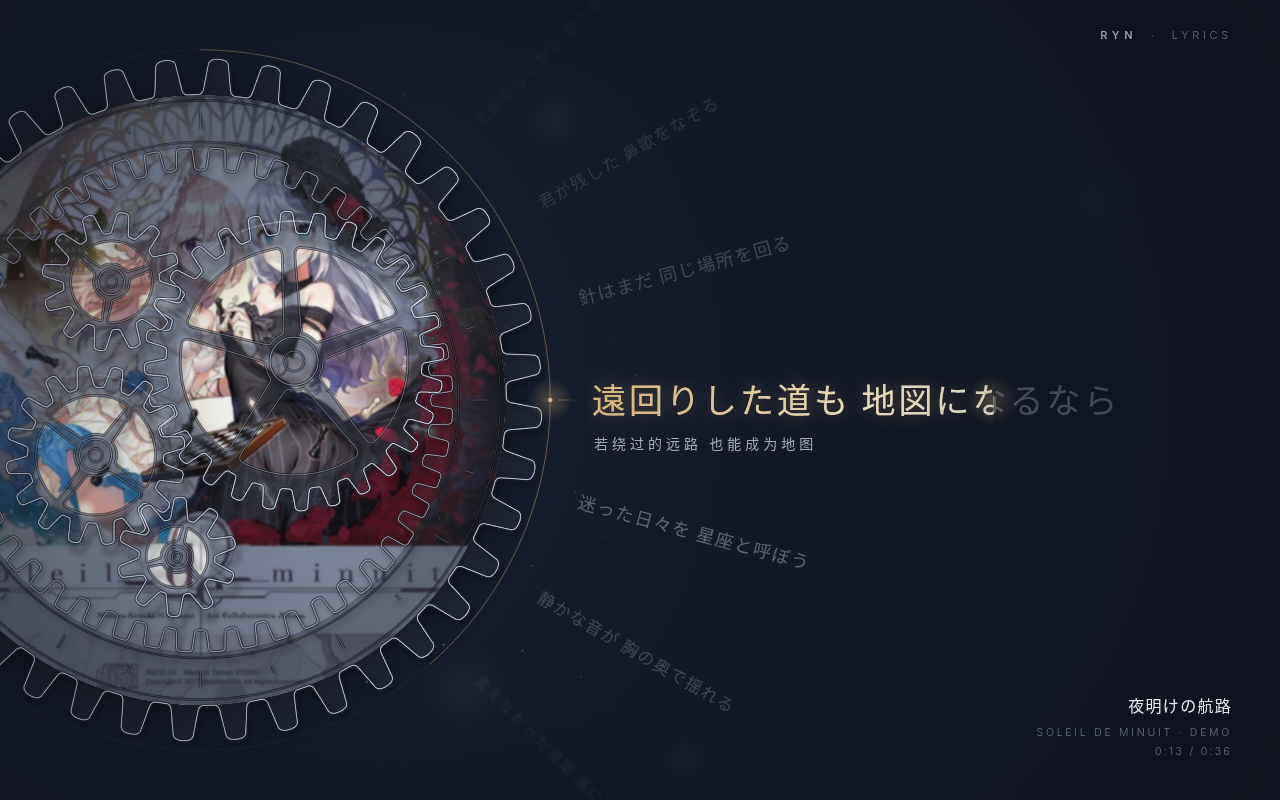
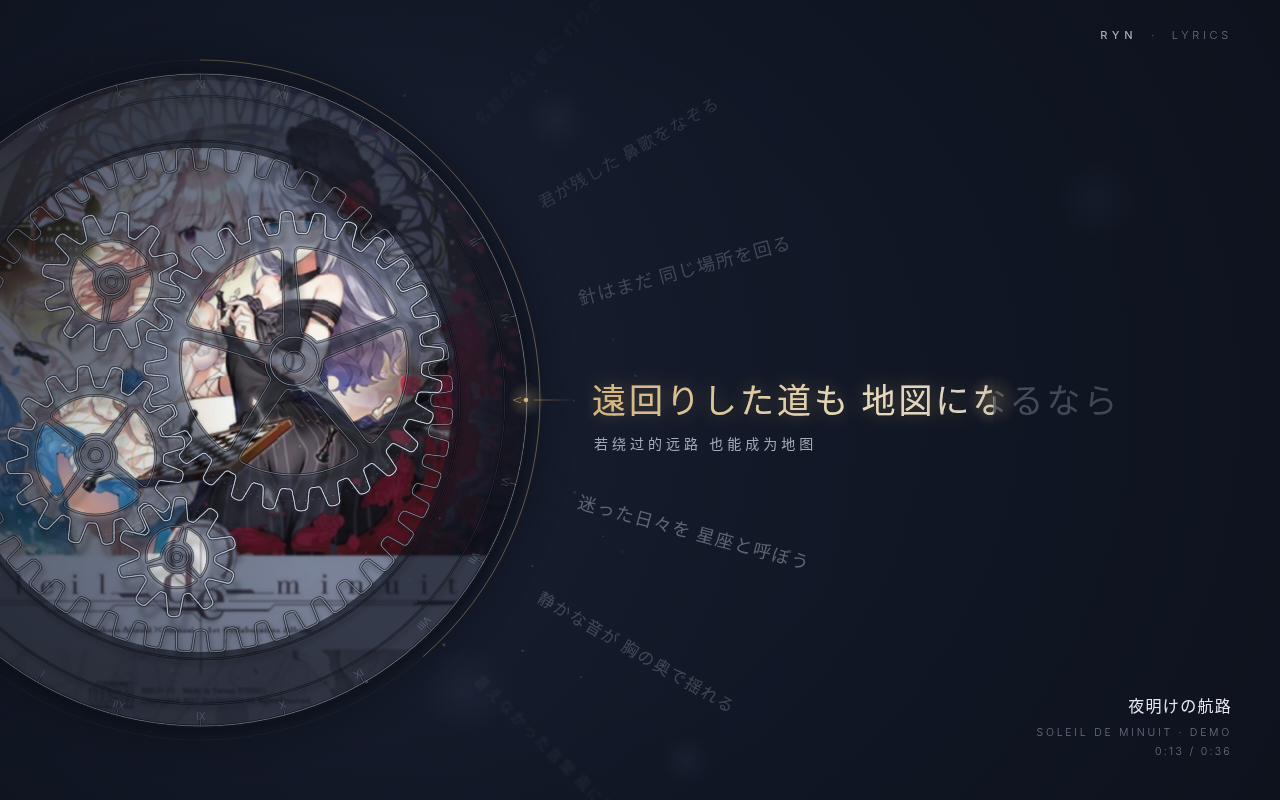
lyric-dial 7b: 6b-style engraved Roman-numeral band rim, calmer pitch-circle light, no mesh-point flashes

Changed region(s): [[0.0, 0.0625, 0.4375, 0.9062]]

diff --git a/ryn-lyric-dial/concept-7b/index.html b/ryn-lyric-dial/concept-7b/index.html
@@ -18,15 +18,16 @@
 <script src="../assets/common.js"></script>
 <script>
 /* Concept 7b — 光轮 II Luminous Train
-   One bold ring (40 outer teeth, 48 inner teeth) drives a plain visible chain inside the dial:
+   An engraved Roman-numeral band (6b style) whose 48 inner teeth drive a plain visible chain inside the dial:
    Ring(48 int) → L(28) → M(16) → S(10)   and   L(28) → S2(12).  No carrier, no bridges, no arms.
    Wheels are luminous hairlines (with a dark under-stroke so they read on bright art);
    the cover is veiled and turns crisp inside the wheels' spoke windows. Ring rotation = lyric arc. */
 const TAU = Math.PI * 2, CX = 200, CY = 400;
 const MI = 10, ZRI = 48, RRI = MI * ZRI / 2;          // ring internal: pitch R 240
-const MO = 16.25, ZRO = 40, RRO = MO * ZRO / 2;       // ring external crown: pitch R 325, tips 341 → Ø 682
-const R_COV = RRO - 1.25 * MO, R_TXT = 392;
-const STEP = 15 * Math.PI / 180;   // 1 line = 15°: 12 lines = 180° = 24 inner / 20 outer teeth → seamless loop
+const BAND_I = RRI + 1.2 * MI, BAND_O = 326;          // engraved band (6b style) between the inner-teeth root and Ø 652
+const R_COV = BAND_O, R_TXT = 392;
+const ROMAN = ['I','II','III','IV','V','VI','VII','VIII','IX','X','XI','XII'];
+const STEP = 15 * Math.PI / 180;   // 1 line = 15°: 12 lines = 180° = 24 inner teeth → seamless loop
 const SS = 2, INK = '226,234,250';
 const smooth = x => x * x * x * (x * (x * 6 - 15) + 10);
 const easeInOutSine = x => -(Math.cos(Math.PI * x) - 1) / 2;
@@ -94,16 +95,15 @@ function bake(cover) {
     g.filter = 'blur(1.6px) saturate(.8) brightness(.67)'; if (cover) g.drawImage(cover, -4, -4, S + 8, S + 8); g.filter = 'none';
     g.globalCompositeOperation = 'multiply'; g.fillStyle = 'rgb(182,195,228)'; g.fillRect(0, 0, S, S); g.globalCompositeOperation = 'source-over';
     // ring band under heavier frost so the rim reads as one bold part
-    g.fillStyle = 'rgba(14,19,31,.3)'; g.beginPath(); g.arc(R_COV, R_COV, R_COV, 0, TAU); g.arc(R_COV, R_COV, RRI + 1.2 * MI, 0, TAU, true); g.fill();
+    g.fillStyle = 'rgba(16,21,34,.66)'; g.beginPath(); g.arc(R_COV, R_COV, R_COV, 0, TAU); g.arc(R_COV, R_COV, RRI + 1.2 * MI, 0, TAU, true); g.fill();
     B.veil = c; }
   { const [c, g] = mk(); g.filter = 'saturate(1.03) contrast(1.03)'; if (cover) g.drawImage(cover, 0, 0, S, S); B.crisp = c; }
   for (const k of ['L', 'M', 'S', 'S2']) { G[k].def = wheelDef(G[k]); B[k] = bakeWheel(G[k].def); }
-  { const outer = toPath(teeth(ZRO, RRO, MO, false)), inner = toPath(teeth(ZRI, RRI, MI, true)), body = new Path2D();
-    body.addPath(outer); body.addPath(inner);
-    const scale = new Path2D(); const rS = (RRI + 1.2 * MI + RRO - 1.2 * MO) / 2;
-    for (let k = 0; k < 24; k++) { const a = k * STEP, l = k % 2 ? 4 : 8; scale.moveTo(Math.cos(a) * (rS - l), Math.sin(a) * (rS - l)); scale.lineTo(Math.cos(a) * (rS + l), Math.sin(a) * (rS + l)); }
-    B.ring = bakeWheel({size: 2 * (RRO + MO) + 16, body, frost: .05, wins: [],
-      lines: [[outer, .8], [inner, .6], [scale, .3], [circ(RRO - 1.2 * MO - 6), .16], [circ(RRI + 1.2 * MI + 6), .16]]}); }
+  { // ring = engraved band (thin concentric rings + one quiet tick per lyric step) with the drive teeth on its inner edge
+    const inner = toPath(teeth(ZRI, RRI, MI, true)), ticks = new Path2D();
+    for (let k = 0; k < 24; k++) { const a = k * STEP; ticks.moveTo(Math.cos(a) * BAND_O, Math.sin(a) * BAND_O); ticks.lineTo(Math.cos(a) * (BAND_O - 6), Math.sin(a) * (BAND_O - 6)); }
+    B.ring = bakeWheel({size: 2 * BAND_O + 16, wins: [],
+      lines: [[circ(BAND_O), .42], [inner, .5], [ticks, .3], [circ(BAND_O - 22), .12], [circ(BAND_I + 7), .1]]}); }
   const shadow = c => { const t = document.createElement('canvas'); t.width = t.height = c.width; const g = t.getContext('2d'); g.filter = `blur(${3 * SS}px) brightness(0)`; g.drawImage(c, 0, 0); t.size = c.size; return t; };
   for (const k of ['ring', 'L', 'M', 'S', 'S2']) B[k + 'Sh'] = shadow(B[k]);
   B.mask = document.createElement('canvas');
@@ -125,6 +125,7 @@ boot(({ctx, cover}, t, s) => {
   const th = {}; th.L = meshInt(thR, G.L); th.M = meshExt(G.L, G.M, th.L); th.S = meshExt(G.M, G.S, th.M); th.S2 = meshExt(G.L, G.S2, th.L);
   const px = Math.sin(t * .13) * 2, py = Math.cos(t * .11) * 1.5;
   const beat = Math.exp(-mod(t, .5) / .12) * (mod(Math.floor(t / .5), 4) === 0 ? 1 : .55);
+  const soft = .5 - .5 * Math.cos(TAU * mod(t, 2) / 2);   // one slow swell per bar
   const dep = {ring: .4, L: 1, M: 1.25, S: 1.5, S2: 1.5};   // parallax depth: smaller wheels sit nearer the glass
 
   for (const [bx, by, br] of BOKEH) { const g = ctx.createRadialGradient(bx - px * 2, by - py * 2, 0, bx - px * 2, by - py * 2, br); g.addColorStop(0, 'rgba(170,190,230,.05)'); g.addColorStop(1, 'rgba(170,190,230,0)'); ctx.fillStyle = g; ctx.beginPath(); ctx.arc(bx - px * 2, by - py * 2, br, 0, TAU); ctx.fill(); }
@@ -137,7 +138,7 @@ boot(({ctx, cover}, t, s) => {
     g.fillStyle = '#fff'; g.shadowColor = '#fff'; g.shadowBlur = 6 * dpr;
     for (const k of ['L', 'M', 'S', 'S2']) { const w = G[k]; g.save(); g.translate(w.x - CX + R_COV + px * dep[k], w.y - CY + R_COV + py * dep[k]); g.rotate(th[k]); for (const p of w.def.wins) g.fill(p); g.restore(); }
     g.shadowBlur = 0; g.globalCompositeOperation = 'source-in'; g.setTransform(1, 0, 0, 1, 0, 0); g.drawImage(B.crisp, 0, 0, mc.width, mc.height); g.globalCompositeOperation = 'source-over';
-    ctx.globalAlpha = .93 + .07 * beat; ctx.drawImage(mc, CX - R_COV, CY - R_COV, S, S); ctx.globalAlpha = 1; }
+    ctx.globalAlpha = .95 + .05 * soft; ctx.drawImage(mc, CX - R_COV, CY - R_COV, S, S); ctx.globalAlpha = 1; }
   { ctx.save(); ctx.beginPath(); ctx.arc(CX, CY, R_COV, 0, TAU); ctx.clip(); ctx.globalCompositeOperation = 'screen';
     const u = mod(t / 11, 1), x0 = CX - 560 + u * 1120, sw = ctx.createLinearGradient(x0 - 150, CY - 320, x0 + 150, CY + 320);
     sw.addColorStop(0, 'rgba(200,214,240,0)'); sw.addColorStop(.5, 'rgba(200,214,240,.06)'); sw.addColorStop(1, 'rgba(200,214,240,0)');
@@ -148,32 +149,33 @@ boot(({ctx, cover}, t, s) => {
   put(ctx, B.ringSh, CX + O[0] * .5, CY + O[1] * .5, thR, .45);
   for (const k of ['L', 'M', 'S', 'S2']) put(ctx, B[k + 'Sh'], G[k].x + O[0] * dep[k], G[k].y + O[1] * dep[k], th[k], .45);
   put(ctx, B.ring, CX + px * dep.ring, CY + py * dep.ring, thR);
+  // Roman numerals engraved on the band, riding with the ring (24 slots = two turns of I–XII), current one gold
+  ctx.font = `300 10px ${FONT_UI}`; ctx.textAlign = 'center'; ctx.textBaseline = 'middle';
+  for (let i = 0; i < N; i++) for (const w of [0, 1]) {
+    const d0 = rel(i, s.p), d = w ? d0 + (d0 < 0 ? 12 : -12) : d0, a = d * STEP, f = w ? 0 : focus(d0);
+    ctx.save(); ctx.translate(CX + px * dep.ring + Math.cos(a) * (BAND_O - 11), CY + py * dep.ring + Math.sin(a) * (BAND_O - 11)); ctx.rotate(a + Math.PI / 2);
+    ctx.fillStyle = f > .02 ? rgba(C.gold, .35 + .5 * f) : `rgba(${INK},.24)`; ctx.fillText(ROMAN[i], 0, 0); ctx.restore(); }
   for (const k of ['L', 'M', 'S', 'S2']) put(ctx, B[k], G[k].x + px * dep[k], G[k].y + py * dep[k], th[k]);
 
-  // beat light along pitch circles (additive)
+  // calm light along the pitch circles: a slow, faint glint that only swells a little on the beat
   ctx.save(); ctx.globalCompositeOperation = 'lighter'; ctx.lineCap = 'round';
-  const comet = (x, y, r, a, len, al) => { for (let k = 0; k < 6; k++) { ctx.strokeStyle = `rgba(${INK},${al * (1 - k / 6)})`; ctx.lineWidth = 1.5 - k * .15; ctx.beginPath(); ctx.arc(x, y, r, a - (k + 1) * len / 6, a - k * len / 6); ctx.stroke(); } };
-  comet(CX, CY, RRI, -t * .3 + 1, .5, .2 + .4 * beat);
-  comet(G.L.x + px, G.L.y + py, G.L.R, t * .8, 1.0, .22 + .5 * beat);
-  comet(G.M.x + px * 1.25, G.M.y + py * 1.25, G.M.R, -t * 1.1 + 2, 1.1, .16 + .4 * beat);
-  // mesh points: where two wheels touch, a soft light breathes with the beat — the linkage reads at a glance
-  const meshPt = (a, b, sign) => { const d = Math.hypot(b.x - a.x, b.y - a.y), k = sign * a.R / d, x = a.x + (b.x - a.x) * k, y = a.y + (b.y - a.y) * k;
-    const g = ctx.createRadialGradient(x, y, 0, x, y, 16); g.addColorStop(0, `rgba(${INK},${.22 + .4 * beat})`); g.addColorStop(1, `rgba(${INK},0)`); ctx.fillStyle = g; ctx.fillRect(x - 16, y - 16, 32, 32); };
-  meshPt({x: CX, y: CY, R: RRI}, G.L, 1); meshPt(G.L, G.M, 1); meshPt(G.M, G.S, 1); meshPt(G.L, G.S2, 1);
+  const comet = (x, y, r, a, len, al) => { for (let k = 0; k < 6; k++) { ctx.strokeStyle = `rgba(${INK},${al * (1 - k / 6)})`; ctx.lineWidth = 1.2 - k * .12; ctx.beginPath(); ctx.arc(x, y, r, a - (k + 1) * len / 6, a - k * len / 6); ctx.stroke(); } };
+  comet(G.L.x + px, G.L.y + py, G.L.R, t * .35, 1.2, .09 + .07 * soft);
+  comet(G.M.x + px * 1.25, G.M.y + py * 1.25, G.M.R, -t * .5 + 2, 1.2, .07 + .05 * soft);
   ctx.restore();
 
   // glass crescent highlight + rim
   { ctx.save(); ctx.beginPath(); ctx.arc(CX, CY, R_COV - 1, 0, TAU); ctx.clip();
     const hl = ctx.createLinearGradient(CX - 200, CY - 300, CX + 80, CY - 40); hl.addColorStop(0, 'rgba(225,235,255,.09)'); hl.addColorStop(1, 'rgba(225,235,255,0)');
     ctx.fillStyle = hl; ctx.beginPath(); ctx.arc(CX, CY, R_COV - 6, Math.PI * 1.1, Math.PI * 1.7); ctx.arc(CX + 50, CY + 44, R_COV - 6, Math.PI * 1.7, Math.PI * 1.1, true); ctx.fill(); ctx.restore(); }
-  // progress: gold hairline just outside the teeth
-  const RP = RRO + MO + 9;
+  // progress: gold hairline just outside the band
+  const RP = BAND_O + 14;
   ctx.lineWidth = .7; ctx.strokeStyle = `rgba(${INK},.07)`; ctx.beginPath(); ctx.arc(CX, CY, RP, 0, TAU); ctx.stroke();
   ctx.strokeStyle = rgba(C.gold, .7); ctx.beginPath(); ctx.arc(CX, CY, RP, -Math.PI / 2, -Math.PI / 2 + TAU * s.progress); ctx.stroke();
   // index + connector
-  { const ix = CX + RP, g = ctx.createRadialGradient(ix, CY, 0, ix, CY, 22);
-    g.addColorStop(0, rgba(C.goldHi, .3 + .25 * beat)); g.addColorStop(1, rgba(C.goldHi, 0));
-    ctx.fillStyle = g; ctx.beginPath(); ctx.arc(ix, CY, 22, 0, TAU); ctx.fill();
+  { const ix = CX + BAND_O, g = ctx.createRadialGradient(ix, CY, 0, ix, CY, 18);
+    g.addColorStop(0, rgba(C.goldHi, .28)); g.addColorStop(1, rgba(C.goldHi, 0));
+    ctx.fillStyle = g; ctx.beginPath(); ctx.arc(ix, CY, 18, 0, TAU); ctx.fill();
     ctx.fillStyle = C.goldHi; ctx.beginPath(); ctx.arc(ix, CY, 2.2, 0, TAU); ctx.fill();
     const lg = ctx.createLinearGradient(ix + 8, 0, CX + R_TXT - 16, 0); lg.addColorStop(0, rgba(C.gold, .8)); lg.addColorStop(1, rgba(C.gold, 0));
     ctx.strokeStyle = lg; ctx.lineWidth = .8; ctx.beginPath(); ctx.moveTo(ix + 8, CY); ctx.lineTo(CX + R_TXT - 16, CY); ctx.stroke(); }

diff --git a/ryn-lyric-dial/gallery.html b/ryn-lyric-dial/gallery.html
@@ -17,5 +17,5 @@ a.card img{display:block;width:100%;aspect-ratio:16/10;object-fit:cover}
 <a class="card" href="concept-3/index.html"><img src="shots/3.png"><div class="meta"><div class="n">CONCEPT 03</div><div class="t">仪表 · Gauge</div><div class="d">底部半圆模拟表盘，歌词沿弧排成刻度标签，指针带回弹扫向当前行，上方大字显示。</div><div class="g">Godot: 刻度烘焙一次（静态 _draw），每帧只重画指针 + 两行大字；Tween TRANS_BACK。</div></div></a>
 <a class="card" href="concept-4/index.html"><img src="shots/4.png"><div class="meta"><div class="n">CONCEPT 04</div><div class="t">八音盒滚筒 · Music-box Drum</div><div class="d">横置的透视滚筒印着歌词，当前行在正面平展，其余行随曲面压缩远去；左侧封面铭牌。</div><div class="g">Godot: draw_set_transform(scale=(sx,cosφ)) 逐行绘制 + 圆柱明暗 shader 或渐变纹理。</div></div></a>
 <a class="card" href="concept-5/index.html"><img src="shots/5.png"><div class="meta"><div class="n">CONCEPT 05</div><div class="t">星轨 · Orbit</div><div class="d">封面为中心天体，歌词沿倾斜椭圆轨道运行，抵达近日点时放大落下；外圈波形环随音频起伏。</div><div class="g">Godot: 轨道点参数方程 + z 排序（后半先画）；波形环用 AudioEffectSpectrumAnalyzer + draw_multiline。</div></div></a>
-<a class="card" href="concept-7b/index.html"><img src="shots/7b.png"><div class="meta"><div class="n">CONCEPT 06 · GEAR (7b)</div><div class="t">光轮 · Luminous Train</div><div class="d">大表盘偏左、部分出画。粗齿外圈（40 齿）驱动盘内一条一眼可读的齿轮链：齿圈 → 大轮 → 中轮 → 小轮，大轮另带一只小轮；无行星架、无夹板、无连杆。齿轮为带暗描边的发光细线，封面罩轻雾，只在辐条窗内清晰明亮。光点随节拍沿节圆和啮合点闪动；右侧歌词沿同心弧，当前行卡拉OK式由金到白点亮。</div><div class="g">Godot: 每轮一张细线贴图 + 一张阴影贴图，只改 rotation（按齿数比计算）；清晰窗口用 SubViewport 遮罩 + 封面 shader 混合；卡拉OK 用 shader 阈值。<a href="shots/7b-detail.png" style="color:#b8955a">2× 细节图</a> · <a href="shots/7b-vs-ref.png" style="color:#b8955a">与参考对比</a></div></div></a>
+<a class="card" href="concept-7b/index.html"><img src="shots/7b.png"><div class="meta"><div class="n">CONCEPT 06 · GEAR (7b)</div><div class="t">光轮 · Luminous Train</div><div class="d">大表盘偏左、部分出画。罗马数字刻度环（同 6b：细同心刻线、I–XII 小罗马数字随歌曲转动），环内缘的齿驱动盘内一条一眼可读的齿轮链：齿圈 → 大轮 → 中轮 → 小轮，大轮另带一只小轮；无行星架、无夹板、无连杆。齿轮为带暗描边的发光细线，封面罩轻雾，只在辐条窗内清晰明亮。节圆上只有缓慢、极淡的光；右侧歌词沿同心弧，当前行卡拉OK式由金到白点亮。</div><div class="g">Godot: 每轮一张细线贴图 + 一张阴影贴图，只改 rotation（按齿数比计算）；清晰窗口用 SubViewport 遮罩 + 封面 shader 混合；卡拉OK 用 shader 阈值。<a href="shots/7b-detail.png" style="color:#b8955a">2× 细节图</a> · <a href="shots/7b-vs-ref.png" style="color:#b8955a">与参考对比</a></div></div></a>
 </div></body></html>

diff --git a/ryn-lyric-dial/README.md b/ryn-lyric-dial/README.md
@@ -16,7 +16,7 @@ In Godot: compute `p` in `_process`, call `queue_redraw()`, map in `_draw()`.
 | 3 | 仪表 Gauge | Dial face, progress ticks and radial labels redrawn only on line change (separate CanvasItem); needle = `Sprite2D`/`Polygon2D` with `rotation` driven by Tween `TRANS_BACK` (+ tiny jitter from `AudioEffectSpectrumAnalyzer`). Big line = 2 `Label`s cross-faded via `modulate.a`. | Per frame: 1 transform + 2 labels. Cheapest. |
 | 4 | 八音盒滚筒 Drum | For each visible line: `draw_set_transform(Vector2(cx, cy+R*sin φ), 0, Vector2(sx, cos φ))` then `draw_string`. Barrel silhouette = `draw_colored_polygon`; cylinder shading = gradient texture or a tiny CanvasItem shader on a ColorRect (`cos` shading on UV.y). Ribs = `draw_line` loop. | ~7 lines × 2 strings + ~40 lines + polygon. Cheap. Alternative: real 3D `CylinderMesh` + `SubViewport` text texture (heavier, not needed). |
 | 5 | 星轨 Orbit | Orbit points from parametric ellipse; sort by z (back half drawn before the cover node, front half after — two CanvasItems or `z_index`). Labels: `draw_string` with font size lerp (use a few cached sizes or `scale` transform to avoid font re-raster). Waveform ring: 120 radial segments via one `draw_multiline` fed by `AudioEffectSpectrumAnalyzerInstance.get_magnitude_for_frequency_range`. | 12 strings + 1 multiline (120 segs) + 3 ellipse polylines. Cheap. |
-| 7b | 光轮 II Luminous Train | Large dial (outer tips Ø682, centre x=200, partly off-screen). One bold ring: 40 outer teeth (m 16.25) as the rim + 48 inner teeth (m 10) + one subtle 24-tick scale on the band. Inside the dial only, a plain visible chain that meshes directly: Ring(48 int) → L(28) → M(16) → S(10), and L → S2(12). No carrier, no bridges, no arms; wheels are 5/4/3/3 tapered straight spokes. Arbor positions solved once at exact centre distances; angles: internal `θL = ψ − π/ZL − (Zr/ZL)(ψ − θR)`, external `θb = ψ + π − π/Zb + (Za/Zb)(ψ − θa)`. Ring = lyric arc (15°/line; 12 lines = 180° = 24 inner / 20 outer teeth → seamless loop). Cover under a light veil (blur 1.6px, ×0.67, cool multiply), crisp and full-bright inside the spoke windows (feathered mask). Lines: dark 3px under-stroke (legible over bright art) + 4px 7% glow + 0.7–1.1px hairline; rim > teeth > windows > dotted pitch circle. Soft blurred shadows, small parallax by depth, beat light on pitch circles and at the mesh points, glass crescent + slow sweep, dust. Lyrics: concentric arc, karaoke gold→white reveal, gold index point + hairline connector + progress. **Godot:** 5 wheel textures + 5 shadow textures (bake offline), per frame set 5 `rotation`s; crisp windows = SubViewport mask (rotated window polygons) → cover shader `mix(veil, crisp, mask.r)`; karaoke = shader with `reveal` uniform on UV.x; comets `draw_arc`; dust GPUParticles2D. | ~10 sprites + 1 SubViewport + 2 small shaders; cheap. |
+| 7b | 光轮 II Luminous Train | Large dial (Ø652 band, centre x=200, partly off-screen). Rim = the 6b engraved band (Ø652): thin concentric rings, 24 quiet ticks and small Roman numerals I–XII engraved on it (current numeral gold), rotating with the song; its hidden-edge 48 inner teeth (m 10) drive the chain. Inside the dial only, a plain visible chain that meshes directly: Ring(48 int) → L(28) → M(16) → S(10), and L → S2(12). No carrier, no bridges, no arms; wheels are 5/4/3/3 tapered straight spokes. Arbor positions solved once at exact centre distances; angles: internal `θL = ψ − π/ZL − (Zr/ZL)(ψ − θR)`, external `θb = ψ + π − π/Zb + (Za/Zb)(ψ − θa)`. Ring = lyric arc (15°/line; 12 lines = 180° = 24 inner teeth → seamless loop). Cover under a light veil (blur 1.6px, ×0.67, cool multiply), crisp and full-bright inside the spoke windows (feathered mask). Lines: dark 3px under-stroke (legible over bright art) + 4px 7% glow + 0.7–1.1px hairline; rim > teeth > windows > dotted pitch circle. Soft blurred shadows, small parallax by depth, a slow, faint glint along two pitch circles (no mesh-point flashes), glass crescent + slow sweep, dust. Lyrics: concentric arc, karaoke gold→white reveal, gold index point + hairline connector + progress. **Godot:** 5 wheel textures + 5 shadow textures (bake offline), per frame set 5 `rotation`s; crisp windows = SubViewport mask (rotated window polygons) → cover shader `mix(veil, crisp, mask.r)`; karaoke = shader with `reveal` uniform on UV.x; comets `draw_arc`; dust GPUParticles2D. | ~10 sprites + 1 SubViewport + 2 small shaders; cheap. |
 
 Notes: avoid changing font size every frame in Godot (each new size rasterizes glyphs) — prefer drawing at
 the max size and scaling via `draw_set_transform`, or snap to a few sizes. Use MSDF fonts for crisp rotated/scaled text.
